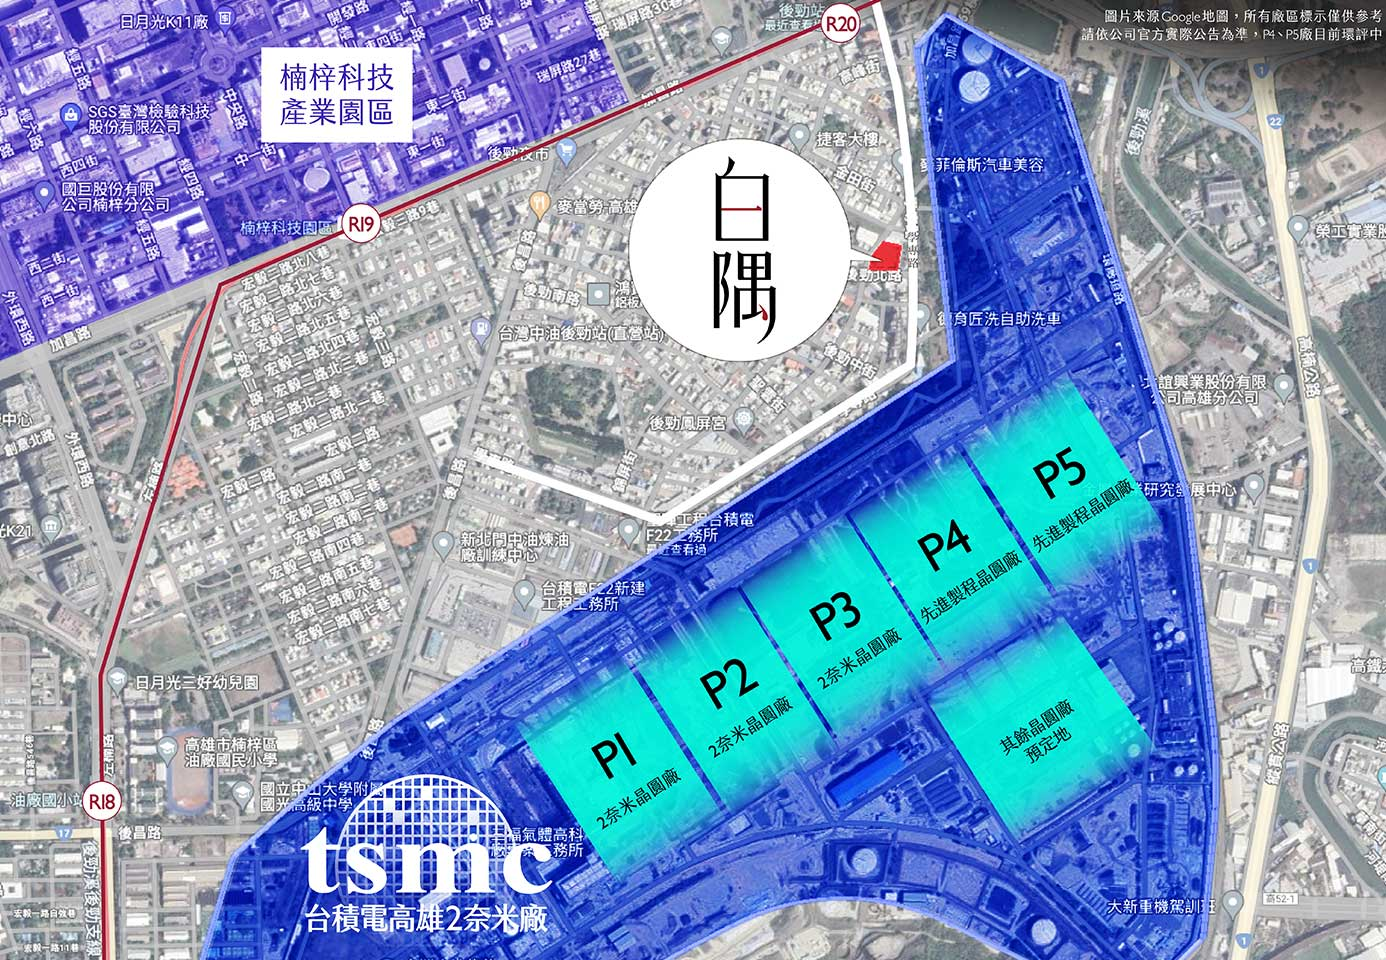
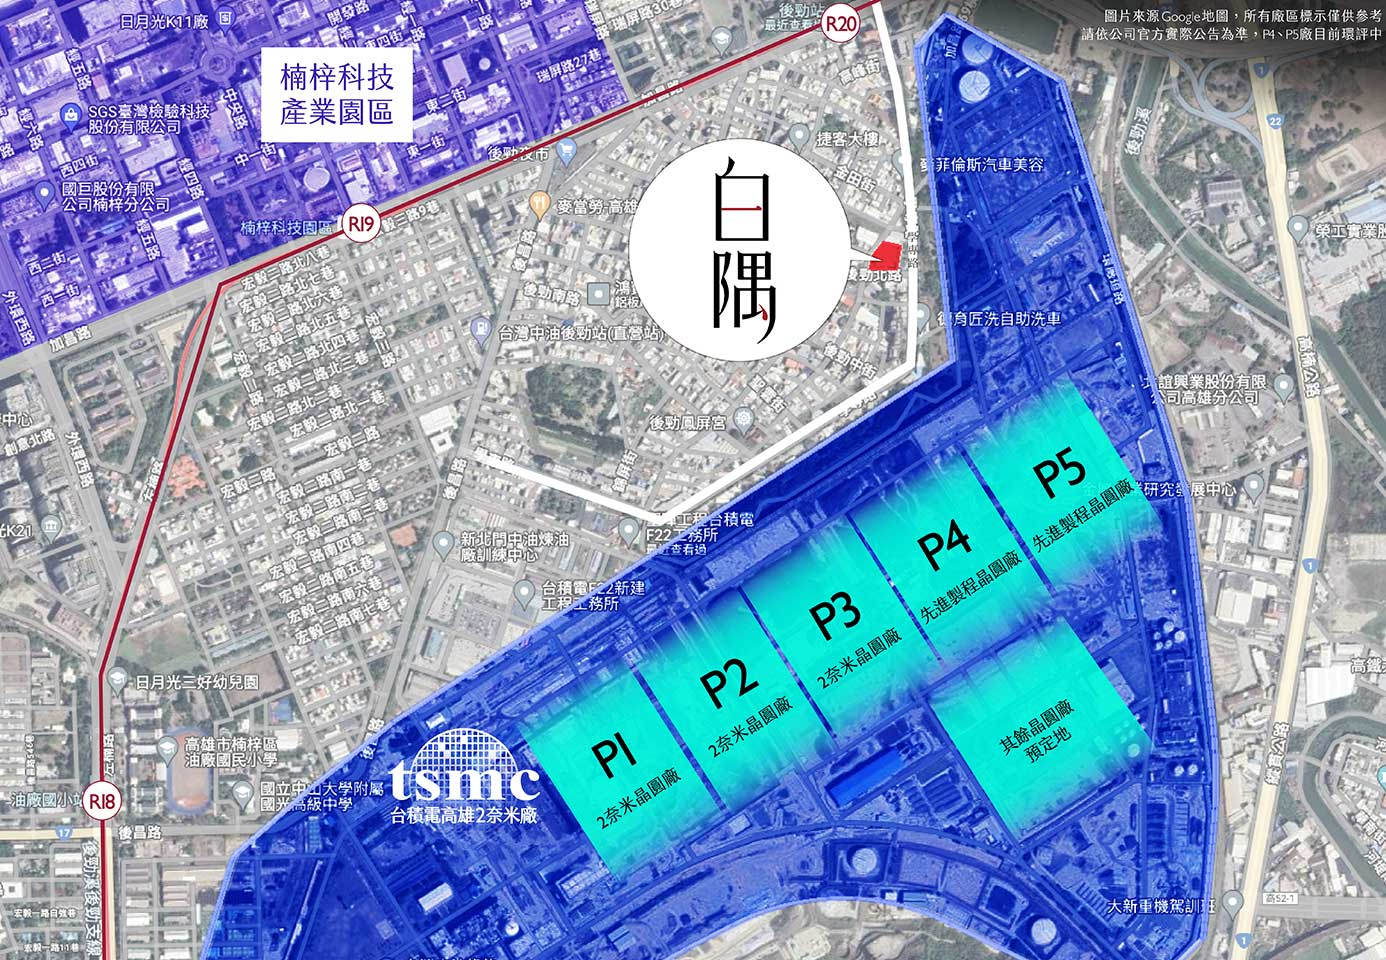
更新圖

diff --git a/src/section/s1.vue b/src/section/s1.vue
@@ -44,10 +44,10 @@
       height: auto;width:size(2300);top:calc(50% + #{size(0 - 1080 * .5)});
     }
   }
-  .logo{width:sizem(270);margin:sizem(37) auto sizem(47);
+  .logo{width:sizem(290);margin:sizem(37) auto sizem(47);
     @media screen and (min-width: 768px) {
-      position: relative;top:calc(20% - #{size(150)});
-      width:size(566);margin:auto;}
+      position: relative;top:calc(20% - #{size(155)});
+      width:size(608);margin:auto;}
   }
   .building{
     width:sizem(78);transform-origin: 50% 100%;
